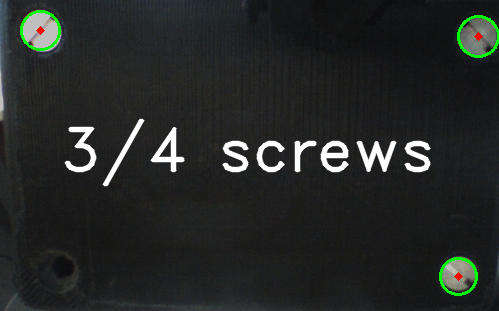
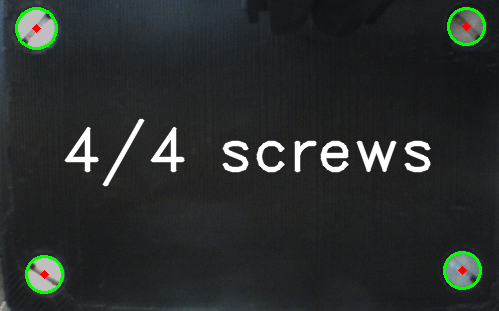
Inspection task OK

diff --git a/src/inspection_task/src/inspection.py b/src/inspection_task/src/inspection.py
@@ -10,7 +10,8 @@ from sensor_msgs.msg import CameraInfo, Image
 from geometry_msgs.msg import Point
 from baxter_core_msgs.msg import EndpointState, DigitalIOState, NavigatorState, DigitalOutputCommand
 from object_recognition.msg import ObjectInfo
-import planning_node as pnode
+import planning_node_left as pnodeLeft
+import planning_node_right as pnodeRight
 import baxter_interface
 import tf
 
@@ -33,7 +34,26 @@ msg_gettingReady = CvBridge().cv2_to_imgmsg(img_gettingReady, encoding="bgr8")
 img_inspectionRunning = cv2.imread('/home/thib/simulation_ws/src/inspection_task/msg/inspection_running.png')
 msg_inspectionRunning = CvBridge().cv2_to_imgmsg(img_inspectionRunning, encoding="bgr8")
 
+img_inspectionCompleted = cv2.imread('/home/thib/simulation_ws/src/inspection_task/msg/inspection_completed.png')
+msg_inspectionCompleted = CvBridge().cv2_to_imgmsg(img_inspectionCompleted, encoding="bgr8")
+
+img_movingScrewing = cv2.imread('/home/thib/simulation_ws/src/assembly_task/msg/moving_screwing.png')
+msg_movingScrewing = CvBridge().cv2_to_imgmsg(img_movingScrewing, encoding="bgr8")
+
+img_confirmScrewing = cv2.imread('/home/thib/simulation_ws/src/assembly_task/msg/confirm_screwing.png')
+msg_confirmScrewing = CvBridge().cv2_to_imgmsg(img_confirmScrewing, encoding="bgr8")
+
+img_screwingCompleted = cv2.imread('/home/thib/simulation_ws/src/assembly_task/msg/screwing_completed.png')
+msg_screwingCompleted = CvBridge().cv2_to_imgmsg(img_screwingCompleted, encoding="bgr8")
+
+img_missingScrews = cv2.imread('/home/thib/simulation_ws/src/inspection_task/msg/missing_screws.png')
+msg_missingScrews = CvBridge().cv2_to_imgmsg(img_missingScrews, encoding="bgr8")
+
+dinspection = [0.690, -0.018, 0.167, 0.353, 0.187, 0.781, -0.479]
 dinspectionCamera = [0.666, -0.023, 0.188, 0.790, 0.464, -0.351, 0.191]
+dplace = [0.880, -0.170, 0.221, 0.390, 0.118, 0.848, -0.338]
+dhome = [0.705, -0.327, 0.125, 0.999, 0.016, 0.008, 0.010]
+# Pre-recorded, can be adjusted by operator
 
 # THIS WORKS
 
@@ -80,7 +100,12 @@ def inspection():
     # Wait
     rospy.sleep(1)
 
-    pnode.initplannode(dinspectionCamera, "left")
+    pnodeRight.initplannode(dinspection, "right")
+
+    # Wait
+    rospy.sleep(1)
+
+    pnodeLeft.initplannode(dinspectionCamera, "left")
 
     gc.command(position=0.0, effort=0.0) # Close gripper
     gc.wait()
@@ -101,20 +126,38 @@ def inspection():
     while screwsDetected == 0:
         rospy.logwarn_throttle(1, "Inspection running")
         # Display action on Baxter's screen
-        image_pub.publish(msg_inspectionRunning)
+        # image_pub.publish(msg_inspectionRunning)
     
 
     if screwsDetected == 4:
+        #Debug terminal
+        print "Inspection completed! 4/4 screws detected."
+        
         # Wait
-        print "Inspection completed!"
         rospy.sleep(2)
         # BAXTER SCREEN OUTPUT
-        # image_pub.publish(msg_enjoy)
+        image_pub.publish(msg_inspectionCompleted)
+
+        #Wait
         rospy.sleep(2)
+
+        # Debug terminal
         print "Going back home"
+        # Call function
+        goingHome()
 
     else:
-        print "Missing screws! Inspection to be done again..."
+        print ("Missing " + str(4 - screwsDetected) + " screw(s)! Inspection to be done again...")
+        
+        # Wait
+        rospy.sleep(2)
+        # BAXTER SCREEN OUTPUT
+        image_pub.publish(msg_missingScrews)
+
+        #Wait
+        rospy.sleep(2)
+
+        assemblyAgain()
     
 
 
@@ -122,6 +165,81 @@ def inspection():
 
 # THIS WORKS
 
+def goingHome():
+    print ("Inside goingHome function")
+
+    # Debug terminal
+    print "Everything fine! Going home (and then placing bax the box on the table)"
+
+    # Display action on Baxter's screen
+    # image_pub.publish(msg_movingScrewing)   
+
+    # Wait
+    rospy.sleep(1)
+
+    # Going home (better: going to PlaceBack script...)
+    # pnodeRight.initplannode(dhome, "right")
+    # Move the left arm as well (otherwise, collision)
+
+    # Wait
+    rospy.sleep(1)
+
+    # Debug terminal
+    print ("I'm back to home position")
+    print ("Placing back the box... TO DO")
+
+    return
+
+def assemblyAgain():
+    print ("Inside assemblyAgain function")
+    
+    # Debug terminal
+    print "Presenting again the object to the operator..."
+
+    # Display action on Baxter's screen
+    image_pub.publish(msg_movingScrewing)
+
+    # Wait
+    rospy.sleep(1)
+
+    # Present object to operator to be assembled
+    pnodeRight.initplannode(dplace, "right")
+
+    # Wait for screwing
+    screwing()
+
+    # Wait
+    rospy.sleep(1)
+
+    # Reset screwsDetected publisher
+    screwsDetected_pub.publish(0)
+
+    # Inspection again
+    inspection()
+
+    return
+
+def screwing():
+    
+    # BAXTER SCREEN OUTPUT
+    image_pub.publish(msg_confirmScrewing)
+    
+    rospy.logwarn_throttle(1,"Waiting for the action to be completed...")
+
+    while navigatorOK_state != True:    
+        # BLINKING BUTTON LIGHT
+        leftInnerLight_pub.publish('left_inner_light', True)
+        rospy.sleep(0.5)
+        leftInnerLight_pub.publish('left_inner_light', False)
+        rospy.sleep(0.5)
+        
+    print "You completed the action."
+    
+    # BAXTER SCREEN OUTPUT
+    image_pub.publish(msg_screwingCompleted)
+
+
+    return
 
 def arm_setup():
     # Get desired joint values from parameter server
@@ -166,6 +284,8 @@ if __name__ == '__main__':
     # leftOuterLight_pub = rospy.Publisher('/robot/digital_io/command', DigitalOutputCommand, queue_size=10)
 
     # object_location_pub = rospy.Publisher("object_location",ObjectInfo,queue_size=10)
+
+    screwsDetected_pub = rospy.Publisher('/screwsDetected', UInt32, latch=True, queue_size=10) 
 
     # Buttons subscribers
     # rospy.Subscriber("/robot/digital_io/left_lower_button/state", DigitalIOState, buttonOKPress)

diff --git a/src/inspection_task/src/planning_node_right.py b/src/inspection_task/src/planning_node_right.py
@@ -1,0 +1,144 @@
+#!/usr/bin/env python
+import struct
+import numpy as np
+
+# REQUIRED TO CALL ROS PACKAGES
+import rospy
+
+# REQUIRED FOR PLANNING
+import moveit_commander
+
+# MESSAGE TYPES
+from std_msgs.msg import Header
+
+# TO CALL IK_SOLVER SERVICE
+from baxter_core_msgs.srv import (
+    SolvePositionIK,
+    SolvePositionIKRequest)
+
+# TO WRITE TO BAXTER
+import baxter_interface
+
+# MESSAGE TYPES
+from sensor_msgs.msg import JointState
+
+from geometry_msgs.msg import (
+    PoseStamped,
+    Pose,
+    Point,
+    Quaternion)
+
+# TO USE AS A CALLBACK NODE IN ANOTHER PYTHON FILE
+def initplannode(goal, limb):
+    print "Inside Planning Node"
+    print goal
+
+    # Actual node that solves IK and calls the MoveIt! planner
+    # in joint-space
+    move_pos(goal, limb)
+    return
+
+# Uses Baxter's IK service to find the required joint angles,
+# It then calls MoveIT! planners to plan to these joint angles
+def move_pos(goal, limb, timeout=3):
+    # Call Baxter's inbuilt service
+    ns = "ExternalTools/" + limb + "/PositionKinematicsNode/IKService"
+    iksvc = rospy.ServiceProxy(ns, SolvePositionIK)
+
+    # Request for same service
+    ikreq = SolvePositionIKRequest()
+
+    # Fill in all message parts
+    hdr = Header(stamp=rospy.Time.now(), frame_id='base')
+
+    # Define  required x, y, z parts
+    pose = Pose()
+
+    # Define orientation of gripper.
+    quat = Quaternion()
+    quat.x = goal[3]
+    quat.y = goal[4]
+    quat.z = goal[5]
+    quat.w = goal[6]
+
+    # Fill the position vectors from goal configuration
+    pose.orientation = quat
+    pose.position.x = goal[0]
+    pose.position.y = goal[1]
+    pose.position.z = goal[2]
+
+    ikreq.pose_stamp = [PoseStamped(header=hdr, pose=pose)]
+
+    # Using Random seeds till a "VALID" IK solution is found
+    # FOR SEED METHOD:
+    # cite1: IK_Service_Client in package: Baxter_Examples
+    # cite2: test_moveit.py from NXR repo linked in Course notes
+    try:
+        rospy.wait_for_service(ns, 3.0)
+        resp = iksvc(ikreq)
+    except (rospy.ServiceException, rospy.ROSException), e:
+        rospy.loginfo("Service exception")
+
+    resp_seeds = struct.unpack('<%dB' % len(resp.result_type),
+                               resp.result_type)
+    if (resp_seeds[0] != resp.RESULT_INVALID):
+        seed_str = {
+                    ikreq.SEED_USER: 'User Provided Seed',
+                    ikreq.SEED_CURRENT: 'Current Joint Angles',
+                    ikreq.SEED_NS_MAP: 'Nullspace Setpoints',
+                   }.get(resp_seeds[0], 'None')
+        print("SUCCESS - Valid Joint Solution Found from Seed Type: %s" %
+              (seed_str))
+        # Format solution into Limb API-compatible dictionary
+        limb_joints = dict(zip(resp.joints[0].name, resp.joints[0].position))
+
+        # Initialize joint angles
+        des_joints = [0]*7
+
+        # Update all joint angles
+        for i in range(7):
+            des_joints[i] = resp.joints[0].position[i]
+
+        # Begin interaction with move_it joint_action_server.
+        # Object of type move_group_commander is used to
+        # interact with Baxter using joint_action_server
+        la = moveit_commander.MoveGroupCommander("right_arm")
+
+        # Set desired joint angles to plan in joint space
+        la.set_joint_value_target(des_joints)
+
+        # FOR JOINT SPACE PLANNING:
+        # cite1: test_moveit.py from NXR repo linked in Course notes
+        la.plan()
+
+        la.set_max_velocity_scaling_factor(0.3)
+
+        # Sets Baxter arm in Motion
+        la.go()
+
+    else:
+        print("INVALID POSE")
+        print("Trying random seeds until timeout is reached")
+        ikt = ik_timeout(ikreq, limb, 5)
+        if ikt is not None and len(ikt.joints[0].position) != 0:
+            des_joints = [0]*7
+            for i in range(7):
+                print i
+                des_joints[i] = ikt.joints[0].position[i]
+
+            # Same moveit! calling strategy as is written in if code block
+            la = moveit_commander.MoveGroupCommander("right_arm")
+            la.set_joint_value_target(des_joints)
+            la.plan()
+            la.go()
+
+        else:
+            print "-------------INVALID POSITION------------"
+    return
+
+# REFERENCES:
+# test_moveit.py from NXR LAB BAXTER REPO (Linked in course notes and README file of this repo)
+# baxter_examples package --> ik_service_client.py example which
+# ... tries to find ik solution using Baxter's inbult ik service and
+# ... trying to find valid solution by using random trials of intial conditions
+# ... called "RANDOM SEED" in this particular reference

diff --git a/src/inspection_task/src/baxter_screws_prediction.py b/src/inspection_task/src/baxter_screws_prediction.py
@@ -46,7 +46,7 @@ class webcam_image:
 
     def callback(self,data):
         detectedScrewsFunction = 0
-        if not self.is_moving:
+        if not self.is_moving and self.analysis == False:
             try:
                 frame = self.bridge.imgmsg_to_cv2(data,"bgr8")
             except CvBridgeError as e:
@@ -69,11 +69,13 @@ class webcam_image:
 
                 detectedScrewsFunction = self.screwDetection(crop_img)
 
-                self.analysis = True
+                
 
                 # Publish baxter message and quit (or running again if missing screws)
                 # print "Analysis OK?: ", self.analysis
                 # print (self.screwDetection(crop_img))
+                if detectedScrewsFunction == 4:
+                    self.analysis = True
                 
 
             # self.screwDetection(crop_img)
@@ -85,6 +87,12 @@ class webcam_image:
 
             # self.screwDetection(frame)
             cv2.waitKey(3)
+
+            
+        
+        # else:
+            # pass # Stop reading video stream
+            # cv2.destroyAllWindows() # Close openCV windows
 
 
     def screwDetection(self, frame):
